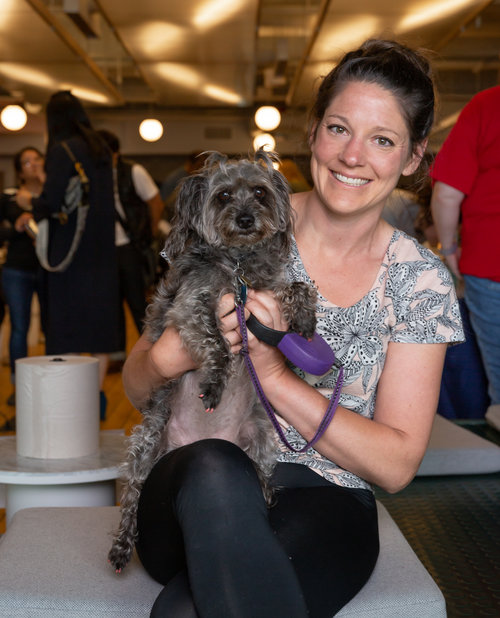
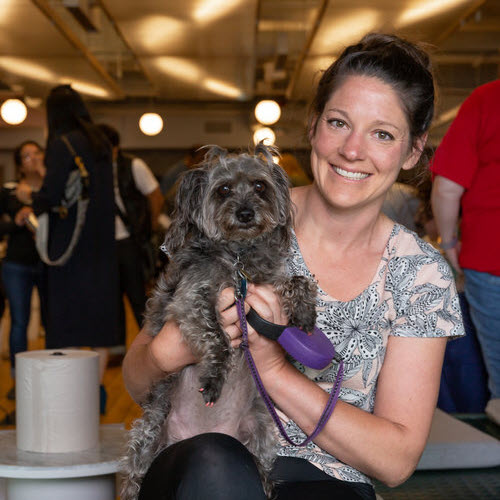
lay out flex changes

diff --git a/gallery.html b/gallery.html
@@ -46,8 +46,10 @@
       <div class="column">
         <div class="user">
           <div class="image-bio-container">
-            <img src="/images/Picture1 Sandy Kato.png" alt="Photo of Sandy and Kato" title="Photo of Sandy and Kato"
-              height="300" width="300">
+            <div class="image">
+              <img src="/images/Picture1 Sandy Kato.png" alt="Photo of Sandy and Kato" title="Photo of Sandy and Kato"
+                height="300" width="300">
+            </div>
             <div class="bio-buttons">
               <p>Sandy (30) and Kato (3) live in Troy, NY. Sandy is seeking a male 27-35 who loves the outdoors,
                 cycling, hiking, and going to the beach. This eligible male should own a small to medium sized pooch
@@ -70,12 +72,11 @@
             <img src="/images/Picture 2 Marcia Mandy.png" alt="Photo of Marcia and Mandy"
               title="Photo of Marcia and Mandy" style="width: 300px; height: 300px">
             <div class="bio-buttons">
-              <p>Marcia (28) and Mandy (4) live in Schenectady, NY. They can be found most weekends enjoying
-                the Mohawk Bike Path. They are seeking an adventourous 28-33 year old male with a fearless dog. The dog
-                should be
-                small to medium sized and be comfortable with kids. Sometimes Marcia bikes while Mandy trots
+              <p>Marcia (28) and Mandy (4) live in Schenectady, NY. Most weekends they're enjoying
+                the Mohawk Bike Path. They are seeking an adventurous 28-33 year old male with a fearless dog. The dog
+                should small to medium sized and be comfortable with kids. Sometimes Marcia bikes while Mandy trots
                 alongside; sometimes they both walk at a brisk pace. Either way, they love the sunshine and meeting
-                other dog parents with their four-legged friends.
+                other dog parent.
               </p>
               <div class="bottom-buttons">
                 <button class="wag">Send TAIL WAG and BARK</button>
@@ -88,98 +89,98 @@
           </div>
         </div>
       </div>
+    </div>
 
 
-
-      <div class="container">
-        <div class="row">
-          <div class="column">
-            <div class="user">
-              <div class="image-bio-container">
-                <img src="/images/mary and olive .jpg" alt="Photo of Mary and Olive " title="Photo of Mary and Olive"
-                  height="300" width="300">
-                <div class="bio-buttons">
-                  <p>Mary (28) and Olive (3) live in Schoharie, NY. Mary is a software engineer looking for a male
-                    28 - 35 who works in a high tech profession. Mary loves hosting dinner parties for
-                    friends and their pets. Olive seeks a small to middle sized companion who is
-                    unexcitable and even-keeled. </p>
-                  <div class="bottom-buttons">
-                    <button class="wag">Send TAIL WAG and BARK</button>
-                    <button class="save">Save for later</button>
-
-                  </div>
-                </div>
+    <!-- <div class="container"> -->
+    <div class="row">
+      <div class="column">
+        <div class="user">
+          <div class="image-bio-container">
+            <img src="/images/mary and olive .jpg" alt="Photo of Mary and Olive " title="Photo of Mary and Olive"
+              height="300" width="300">
+            <div class="bio-buttons">
+              <p>Mary (28) and Olive (3) live in Schoharie, NY. Mary is a software engineer looking for a male
+                28 - 35 who works in a high tech profession. Mary loves hosting dinner parties for
+                friends and their pets. Olive seeks a small to middle sized companion who is
+                unexcitable and even-keeled. </p>
+              <div class="bottom-buttons">
+                <button class="wag">Send TAIL WAG and BARK</button>
+                <button class="save">Save for later</button>
 
               </div>
             </div>
+
           </div>
-          <div class="column">
-            <div class="user">
-              <div class="image-bio-container">
-                <img src="/images/Debbie and Huntley 3.jpg" alt="Photo of Debbie and Huntley"
-                  title="Photo of Debbie and Huntley" height="300" width="300">
-                <div class="bio-buttons">
-                  <p>Debbie (32) and Huntley (6), live in Altamont, NY. Debbie is a real estate broker who is seeking an
-                    educated male between 30 and 40. He should love dogs and be into cycling, skiing and summer
-                    concerts. Huntley loves summers for going to the beach where he can be found chasing or being chased
-                    by fellow
-                    pooches.</p>
-                  <div class="bottom-buttons">
-                    <button class="wag">Send TAIL WAG and BARK</button>
-                    <button class="save">Save for later</button>
+        </div>
+      </div>
+      <div class="column">
+        <div class="user">
+          <div class="image-bio-container">
+            <img src="/images/Debbie and Huntley 3.jpg" alt="Photo of Debbie and Huntley"
+              title="Photo of Debbie and Huntley" height="300" width="300">
+            <div class="bio-buttons">
+              <p>Debbie (32) and Huntley (6), live in Altamont, NY. Debbie, a real estate broker, is seeking an
+                male between 30 and 40. He should love dogs and be into cycling, skiing and summer
+                concerts. Huntley loves summers for going to the beach where he can be found chasing or being chased.
+              </p>
+              <div class="bottom-buttons">
+                <button class="wag">Send TAIL WAG and BARK</button>
+                <button class="save">Save for later</button>
 
-
-                  </div>
-                </div>
 
               </div>
             </div>
+
           </div>
+        </div>
+      </div>
+    </div>
 
-          <div class="row">
-            <div class="column">
-              <div class="user">
-                <div class="image-bio-container">
-                  <img src="/images/Sharon and Princess.jpg" alt="Photo of Sharon and Princess"
-                    title="Sharon and Princess" height="300" width="300">
-                  <div class="bio-buttons">
-                    <p>Sharon (26) and Princess (4) live in Guilderland, NY. Sharon, a PhD student in Mathematics, is
-                      seeking a male dog owner, age 25-33, with an advanced degree. Sharon adores Princess; she wants to
-                      her to have a canine companion who is small to medium sized, obedient - one who would never think
-                      of begging at the dinner table. </p>
-                    <div class="bottom-buttons">
-                      <button class="wag">Send TAIL WAG and BARK</button><br>
-                      <button class="save">Save for later</button>
+    <div class="row">
+      <div class="column">
+        <div class="user">
+          <div class="image-bio-container">
+            <img src="/images/Sharon and Princess.jpg" alt="Photo of Sharon and Princess" title="Sharon and Princess"
+              height="300" width="300">
+            <div class="bio-buttons">
+              <p>Sharon (26) and Princess (4) live in Guilderland, NY. Sharon, a PhD student in Mathematics, is
+                seeking a male dog owner, age 25-33, with an advanced degree. Sharon adores Princess; she wants to
+                her to have a canine companion who is small to medium sized, obedient - one who would never think
+                of begging at the dinner table. </p>
+              <div class="bottom-buttons">
+                <button class="wag">Send TAIL WAG and BARK</button><br>
+                <button class="save">Save for later</button>
 
-                    </div>
-                  </div>
-
-                </div>
-              </div>
-            </div>
-            <div class="column">
-              <div class="user">
-                <div class="image-bio-container">
-                  <img src="/images/Kim and Brutus .jpg" alt="Photo of Kim and Brutus" title="Photo of Kim and Brutus"
-                    height="300" width="300">
-                  <div class="bio-buttons">
-                    <p>Kim (34) and Brutus (7) are from Arizona and recently settled in Saratoga Springs, NY. Kim
-                      and Brutus enjoy kayaking in the summer, hiking the Adirondack High Peaks in the fall and snow
-                      boarding in
-                      the winter. Brutus seeks a medium sized companion who enjoys digging at the beach and chasing
-                      snowballs in the winter. </p>
-                    <div class="bottom-buttons">
-                      <button class="wag">Send TAIL WAG and BARK</button><br>
-                      <button class="save">Save for later</button>
-
-
-                    </div>
-                  </div>
-
-                </div>
               </div>
             </div>
 
+          </div>
+        </div>
+      </div>
+      <div class="column">
+        <div class="user">
+          <div class="image-bio-container">
+            <img src="/images/Kim and Brutus .jpg" alt="Photo of Kim and Brutus" title="Photo of Kim and Brutus"
+              height="300" width="300">
+            <div class="bio-buttons">
+              <p>Kim (34) and Brutus (7) are from Arizona and recently settled in Saratoga Springs, NY. Kim
+                and Brutus enjoy kayaking in the summer, hiking the Adirondack High Peaks in the fall and snow
+                boarding in the winter. Brutus seeks a small to medium sized companion who enjoys digging at the beach
+                and chasing
+                snowballs in the winter.</p><br>
+              <div class="bottom-buttons">
+                <button class="wag">Send TAIL WAG and BARK</button><br>
+                <button class="save">Save for later</button>
 
 
+              </div>
+            </div>
+
+          </div>
+        </div>
+      </div>
+    </div>
+    <!-- </div> -->
+  </div>
 </body>

diff --git a/styles.css b/styles.css
@@ -50,19 +50,26 @@ padding: 1%;
 
 
 .container{
-  display: flex;
+ 
   /*flex-wrap: wrap;*/
   background-color:slateblue;
   padding:0% 0% 5% 0%
 }
+
+/*.container *{
+  border:1px solid red!important;
+}*/
   
 .user{
-  flex-basis: 50%;
+ /* flex-basis: 50%;*/
   position: relative;
+  height:100%;
 }
-.user img{
-  width: 300px;
+.image{
+  width: 100%;
   height: 300px;
+  flex:1;
+ /* min-width:300px;*/ 
   
 }
 .user p{
@@ -78,6 +85,7 @@ padding: 1%;
   flex-direction: row;
   flex-wrap: wrap;
   width: 100%;
+  align-items: stretch;
 }
 
 .column {
@@ -105,6 +113,7 @@ padding: 1%;
 }
 .bio-buttons{
   background-color: skyblue;
+  flex:2;
 }
 
 .wag, .save{
@@ -124,5 +133,9 @@ padding: 1%;
   }
   .image-bio-container{
     flex-direction: column;
+  }
+
+  .nav-links{
+    float:none;
   }
 }
